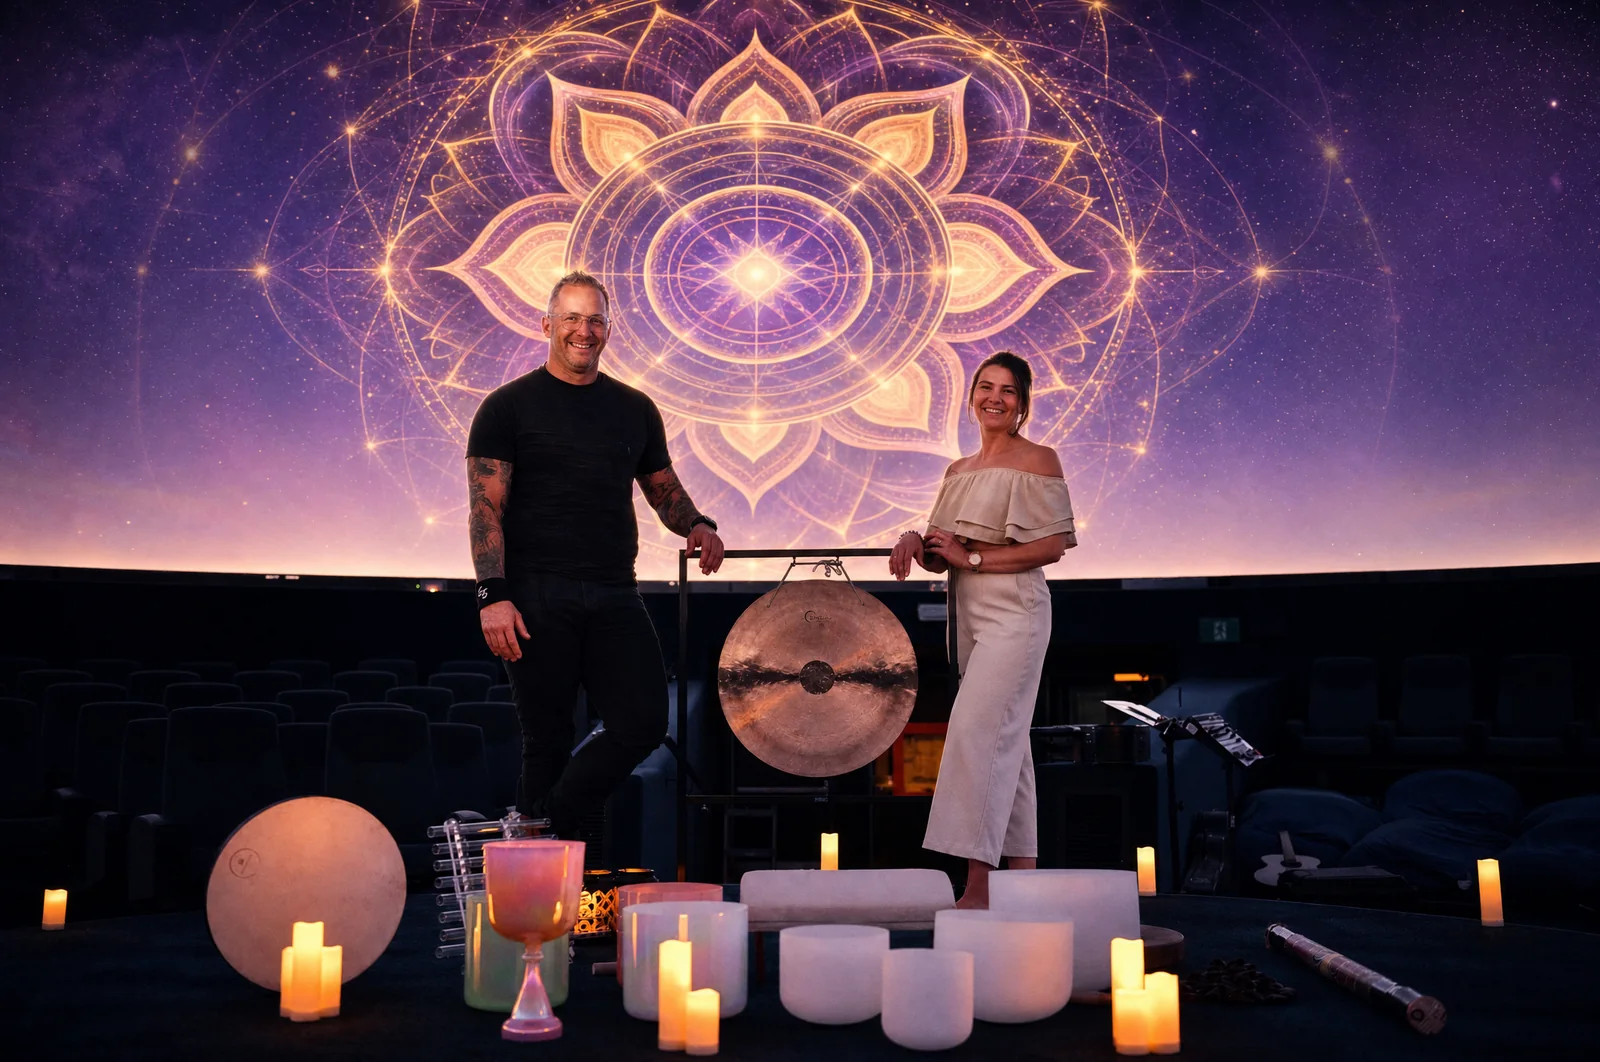
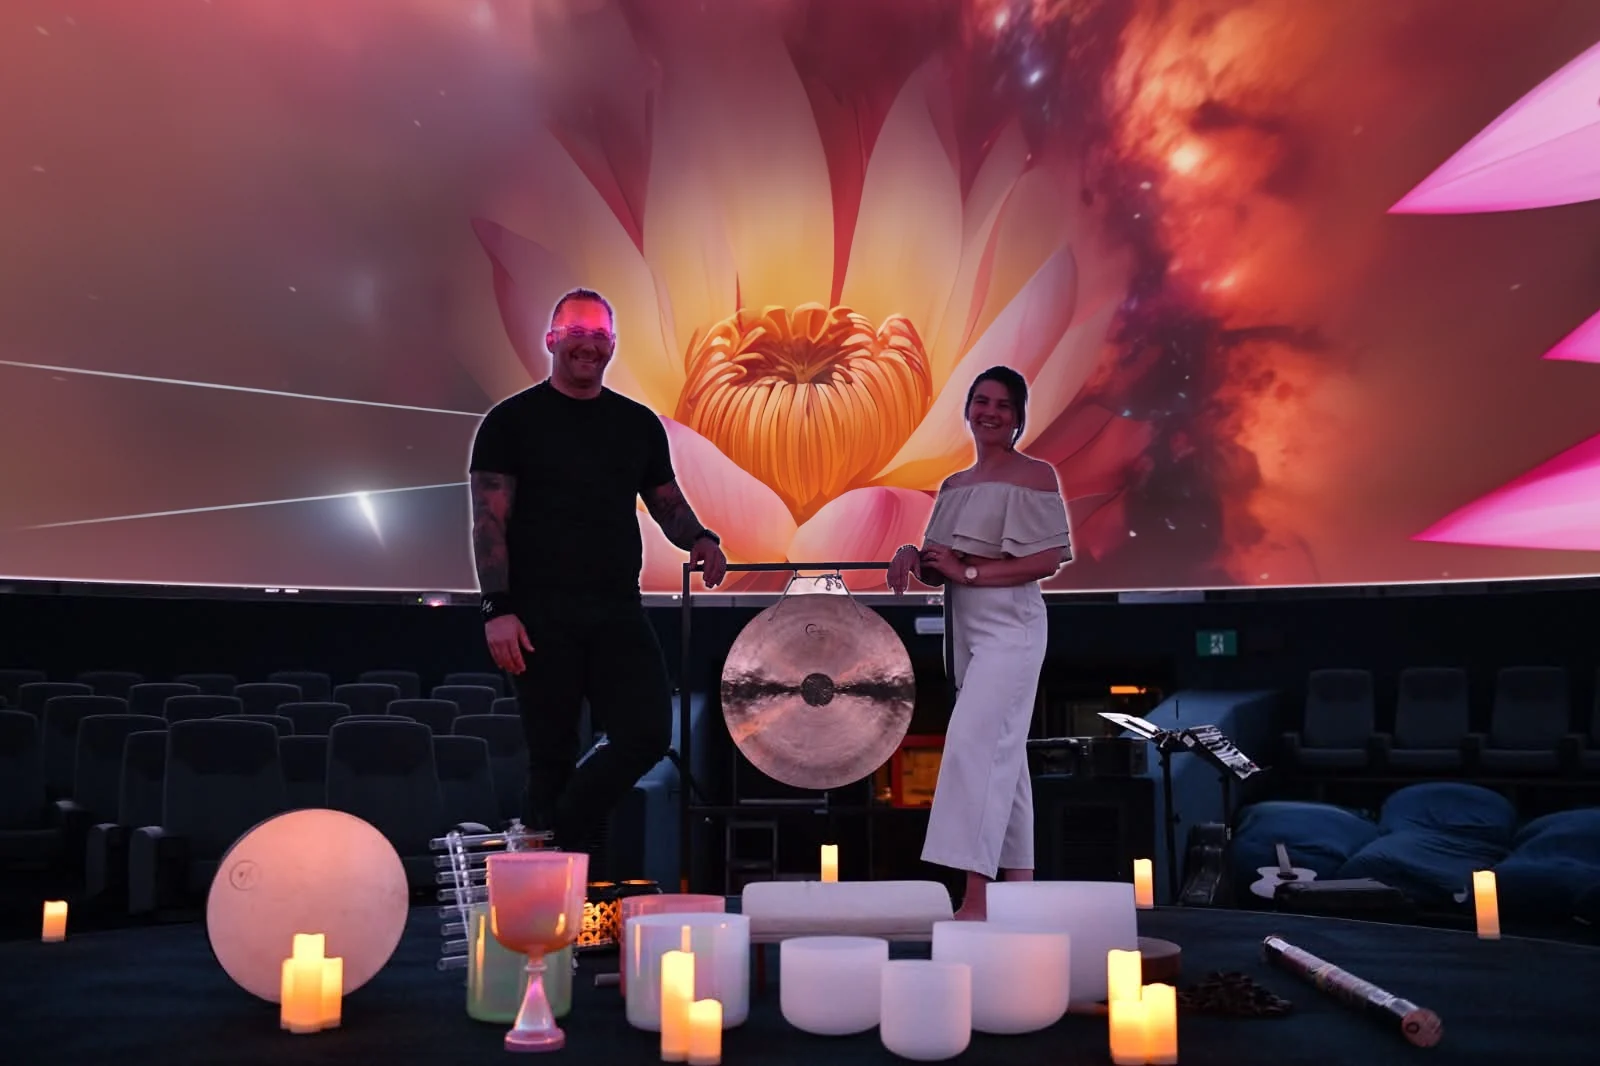
Real photo of Jeanine and Matt with the red lotus on the dome
Claude-Session: https://claude.ai/code/session_018t2n2rLBsEkN6wzFoFyfiq

diff --git a/index.html b/index.html
@@ -362,7 +362,7 @@ html:not(.sky-live) .rise{opacity:1;transform:none}
     <h2 class="rise">Jeanine &amp; Matt</h2>
     <p class="lead rise">This is the first time The Mindful Mandala Wellness has brought a sound bath into the Zeidler Dome at TELUS World of Science - Edmonton. Jeanine and Matt have built the hour together with one aim, that the room feels safe enough for you to fully let go.</p>
     <figure class="guides-photo rise">
-      <img src="jeanine-and-matt-dome.webp" srcset="jeanine-and-matt-dome-900.webp 900w, jeanine-and-matt-dome.webp 1600w" sizes="(max-width: 900px) 100vw, 860px" alt="Jeanine and Matt standing in the Zeidler Dome with the gong and crystal bowls, a glowing mandala across the dome above them" loading="lazy" decoding="async" width="1600" height="1063" />
+      <img src="jeanine-and-matt-dome.webp" srcset="jeanine-and-matt-dome-900.webp 900w, jeanine-and-matt-dome.webp 1600w" sizes="(max-width: 900px) 100vw, 860px" alt="Jeanine and Matt standing in the Zeidler Dome with the gong and crystal bowls, a red lotus opening across the dome above them" loading="lazy" decoding="async" width="1600" height="1066" />
       <figcaption>Jeanine and Matt in the Zeidler Dome</figcaption>
     </figure>
     <div class="hosts rise">
